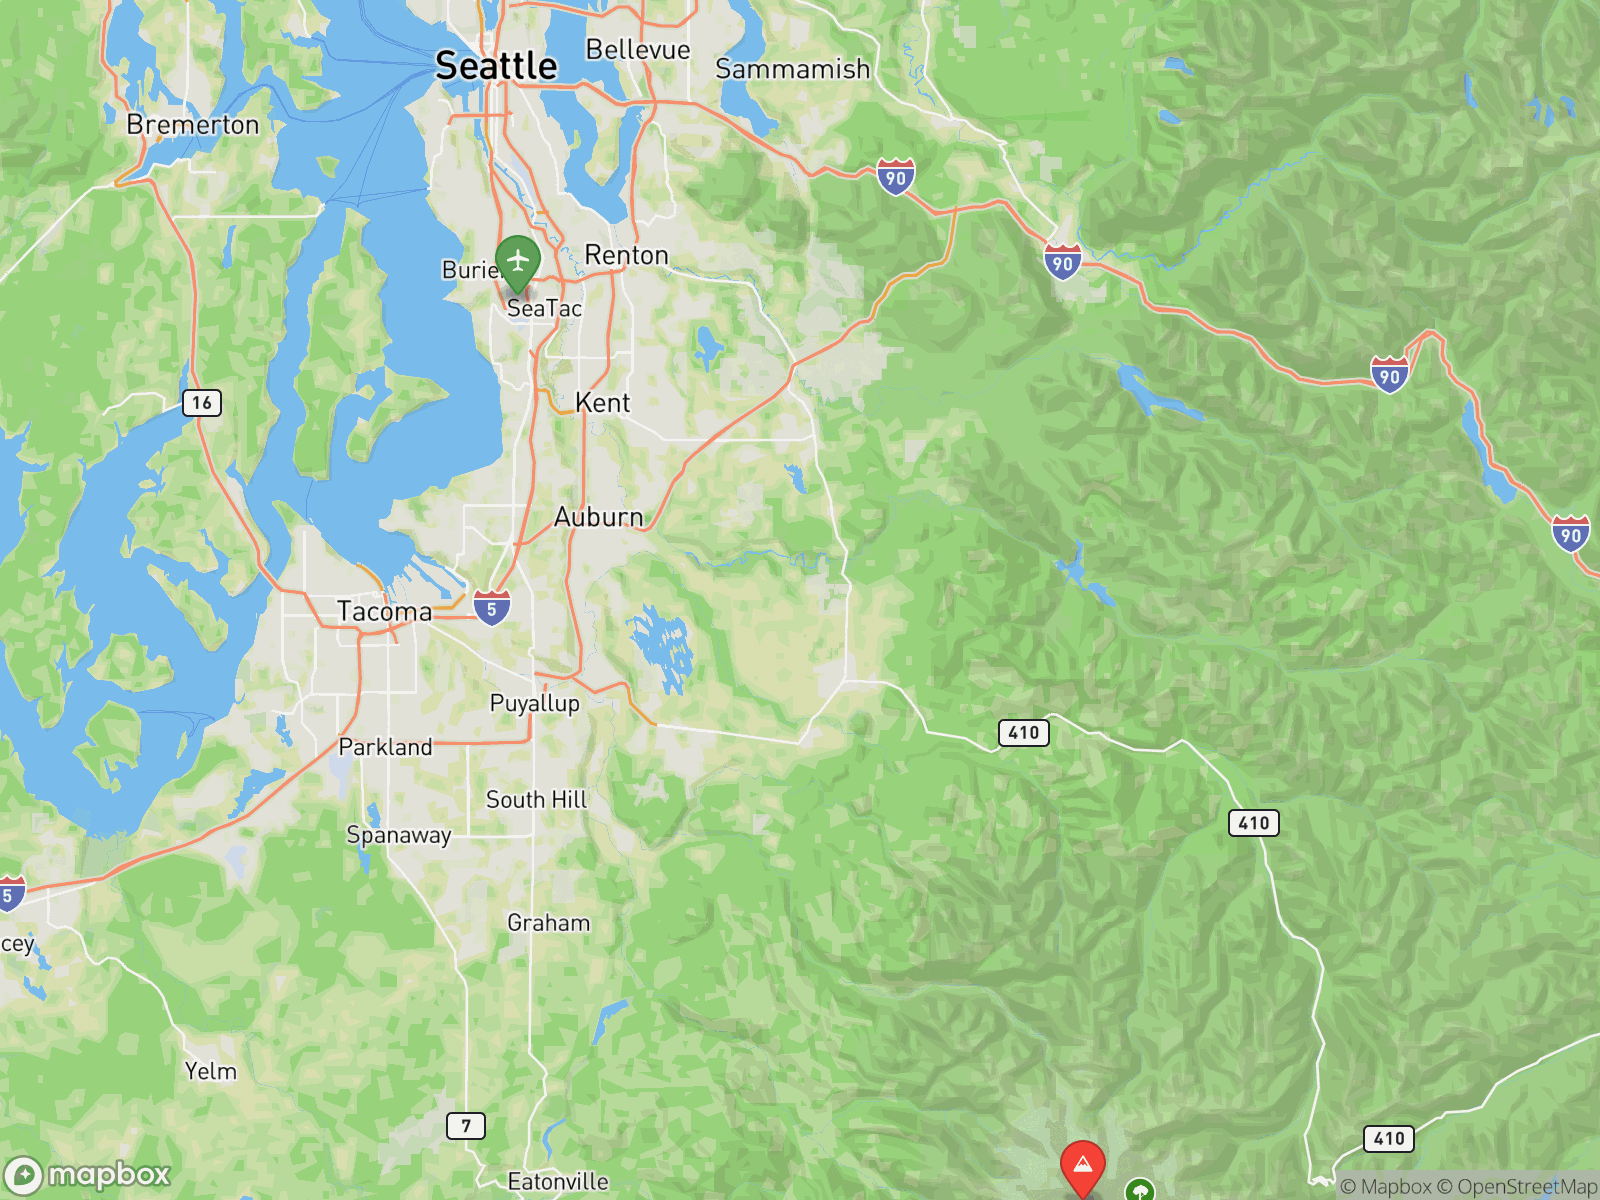
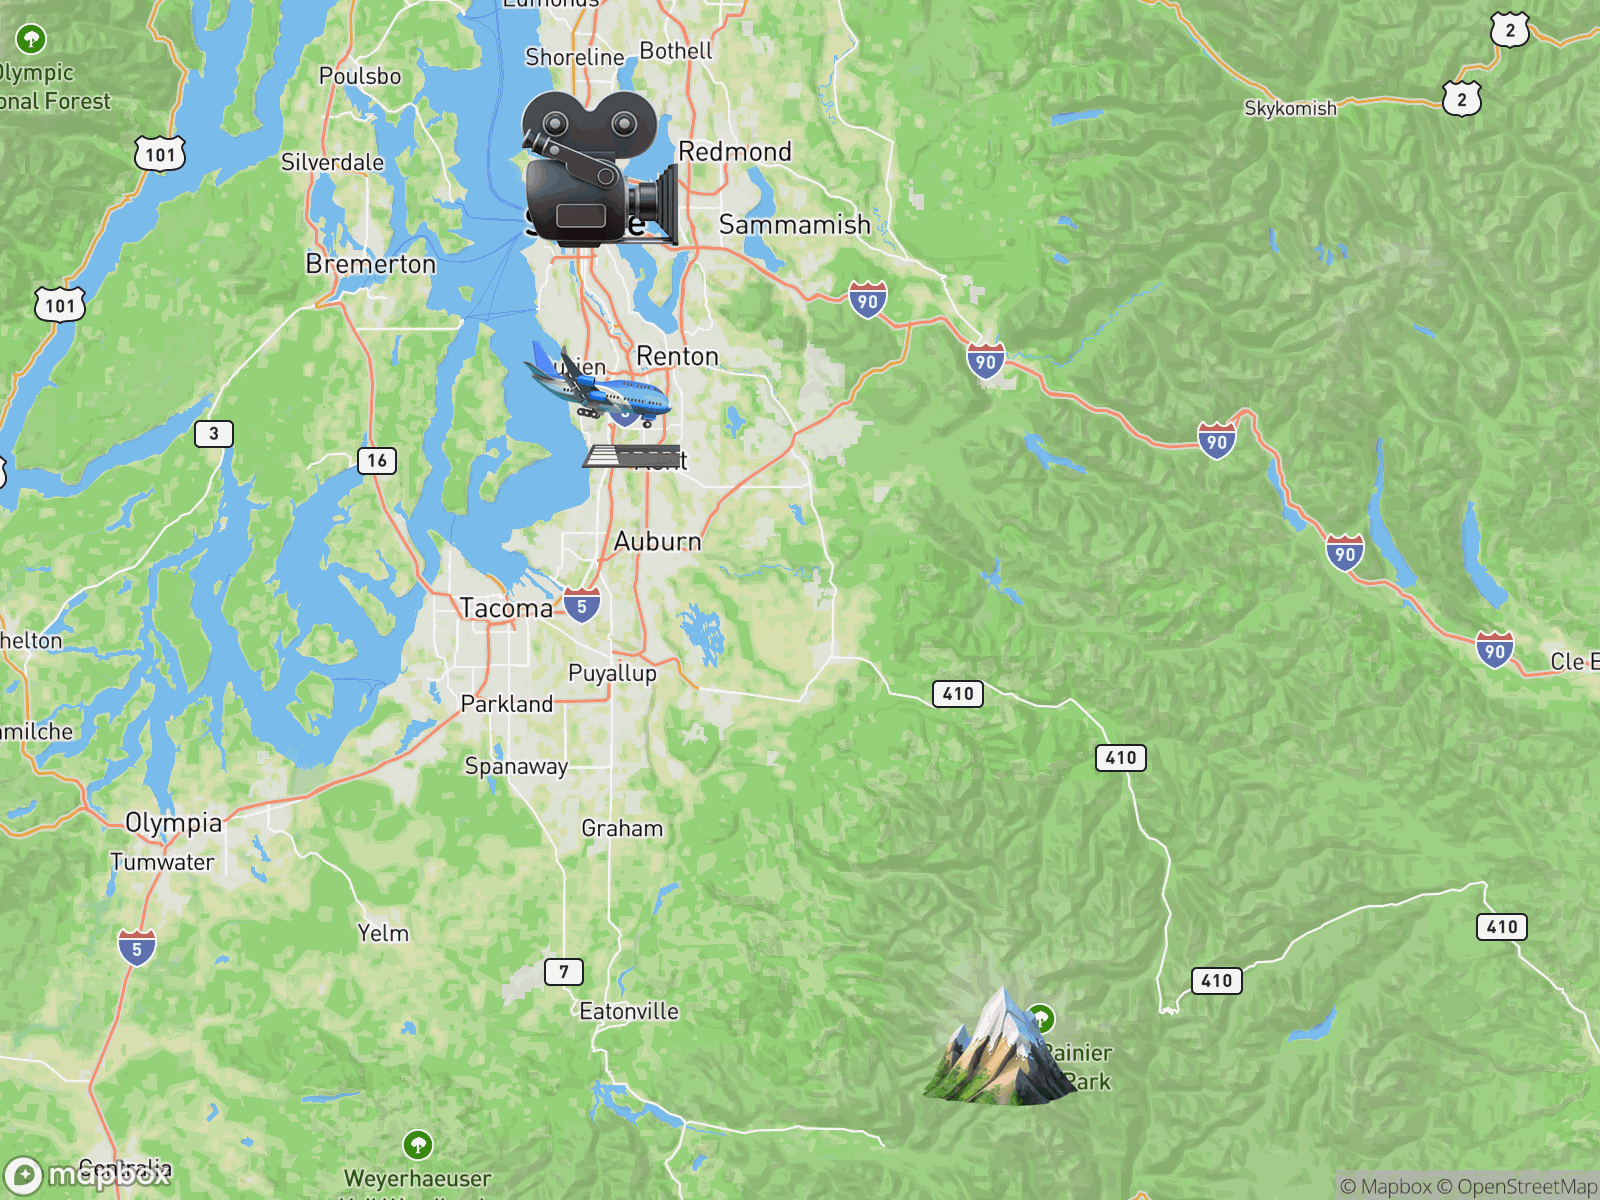
Regenerate map with actual emojis and zoom 8

diff --git a/tools/generate_map.py b/tools/generate_map.py
@@ -16,26 +16,34 @@ def generate_map():
     cam = config['webcam']
     weather = config['weather']
     
-    # Marker colors: Rainier (Red), Webcam (Blue), Weather (Green)
-    # Using Maki icons as reliable high-quality substitutes for the requested emojis
-    # mountain -> 🏔, cinema -> 🎥, airport -> 🛬
+    # Using custom URL markers to render high-quality actual emojis
+    # 🏔 (Mountain), 🎥 (Webcam), 🛬 (METAR)
+    # Mapbox requires the custom marker URLs to be double-percent-encoded.
+    def get_emoji_marker(emoji, color_hex, lon, lat):
+        import urllib.parse
+        # Double encode the emoji character so it survives the Mapbox URL parsing
+        encoded_emoji = urllib.parse.quote(emoji)
+        emoji_url = f"https://emojicdn.elk.sh/{encoded_emoji}"
+        # Final encoding for the Mapbox Static API overlay part
+        encoded_url = urllib.parse.quote(emoji_url, safe='')
+        return f"url-{encoded_url}({lon},{lat})"
+
     markers = [
-        f"pin-s-mountain+f44336({mtn['longitude']},{mtn['latitude']})",
-        f"pin-s-cinema+2196f3({cam['longitude']},{cam['latitude']})",
-        f"pin-s-airport+4caf50({weather['longitude']},{weather['latitude']})"
+        get_emoji_marker("🏔", "f44336", mtn['longitude'], mtn['latitude']),
+        get_emoji_marker("🎥", "2196f3", cam['longitude'], cam['latitude']),
+        get_emoji_marker("🛬", "4caf50", weather['longitude'], weather['latitude'])
     ]
     
     overlay = ",".join(markers)
     style = "mapbox/outdoors-v12"
     width, height = 800, 600
     
-    # Calculate bounds to add padding (Mapbox 'auto' is often too tight)
-    # Center is approximately halfway between the furthest points
+    # Calculate center between the two most distant points
     avg_lon = (mtn['longitude'] + cam['longitude']) / 2
     avg_lat = (mtn['latitude'] + cam['latitude']) / 2
     
-    # Zoom 8.5 provides a good balance for the Puget Sound region coverage
-    zoom = 8.5
+    # Target zoom level
+    zoom = 8
     
     url = f"https://api.mapbox.com/styles/v1/{style}/static/{overlay}/{avg_lon},{avg_lat},{zoom}/{width}x{height}@2x?access_token={token}"
     
